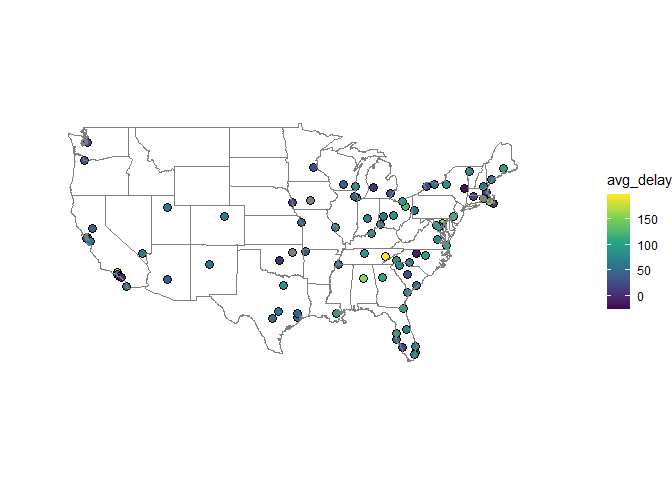
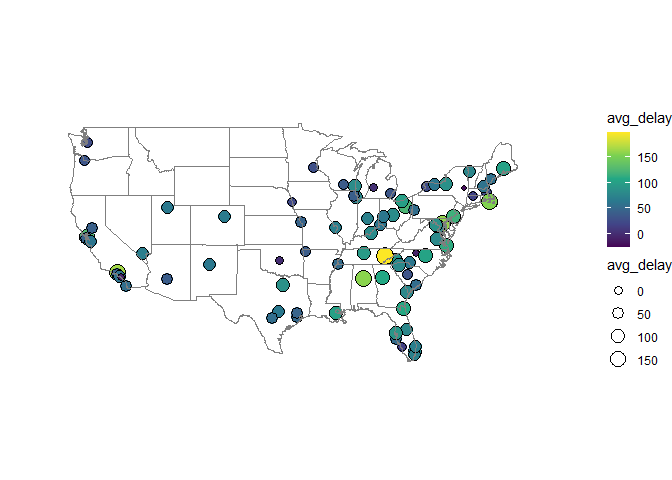
update week 32

diff --git a/r4ds_week32.md b/r4ds_week32.md
@@ -4,7 +4,6 @@ Pierrette Lo
 11/13/2020
 
   - [This week’s assignment](#this-weeks-assignment)
-  - [Ch 13:4 Mutating joins](#ch-134-mutating-joins)
 
 ## This week’s assignment
 
@@ -17,7 +16,7 @@ library(tidyverse)
 library(nycflights13)
 ```
 
-## Ch 13:4 Mutating joins
+\= \#\# Ch 13:4 Mutating joins
 
 ### Exercises
 
@@ -160,13 +159,15 @@ flights %>%
 ![](r4ds_week32_files/figure-gfm/unnamed-chunk-5-1.png)<!-- -->
 
 Looks like planes around 10 years old have the highest delays - not sure
-why??
+why? Maybe because older planes that aren’t functioning well get removed
+from service, so you’re selecting for the best ones. Or there are
+probably many other confounding factors that aren’t considered here.
 
 > 4.  What weather conditions make it more likely to see a delay?
 
   - Use inner join to only get rows that have both flight and weather
-    info (there are gaps in the weather dataset)
-  - Summarize delays and weather by time\_hour
+    info (since I noticed there are gaps in the weather dataset)
+  - Summarize delays and weather by `time_hour`
   - Pivot delays so I can look at any type of delay (either arr or dep)
   - Pivot weather so I can make a faceted plot
 
@@ -185,7 +186,7 @@ flights %>%
   pivot_longer(cols = ends_with("delay"),
                names_to = "delay_type",
                values_to = "delay") %>% 
-  pivot_longer(c(starts_with("avg")),
+  pivot_longer(cols = starts_with("avg"),
                names_to = "weather_metric",
                values_to = "weather_value") %>% 
   ggplot(aes(x = weather_value, y = delay)) +
@@ -205,8 +206,8 @@ flights %>%
 ![](r4ds_week32_files/figure-gfm/unnamed-chunk-6-1.png)<!-- -->
 
 Looks like precipitation has the greatest effect on delay. Wind speed
-also slightly increases delay. Not sure why increased visibility seems
-to decrease delays? Maybe it’s not significant.
+also slightly increases delay, but maybe it’s not significant. As
+expected, greater visibility decreases delay.
 
 > 5.  What happened on June 13 2013? Display the spatial pattern of
 >     delays, and then use Google to cross-reference with the weather.
@@ -222,8 +223,7 @@ flights %>%
             by = c("dest" = "faa")) %>% 
   select(dest, avg_delay, lat, lon) %>%
   ggplot(aes(x = lon, y = lat)) +
-  geom_point(aes(fill = avg_delay),
-             size = 3,
+  geom_point(aes(fill = avg_delay, size = avg_delay),
              shape = 21,
              color = "black") +
   borders("state") +
@@ -237,7 +237,7 @@ flights %>%
 
     ## `summarise()` ungrouping output (override with `.groups` argument)
 
-    ## Warning: Removed 5 rows containing missing values (geom_point).
+    ## Warning: Removed 8 rows containing missing values (geom_point).
 
 ![](r4ds_week32_files/figure-gfm/unnamed-chunk-7-1.png)<!-- -->
 
